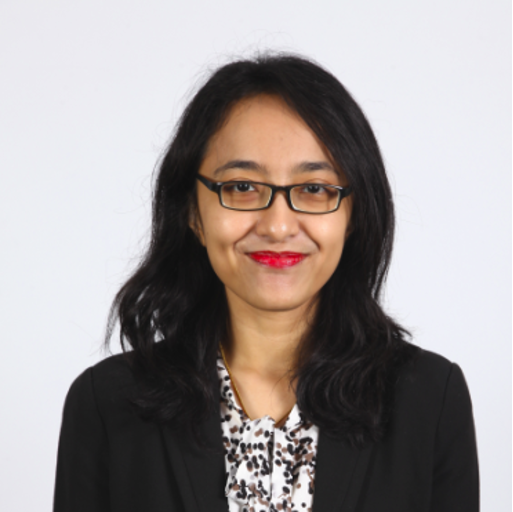
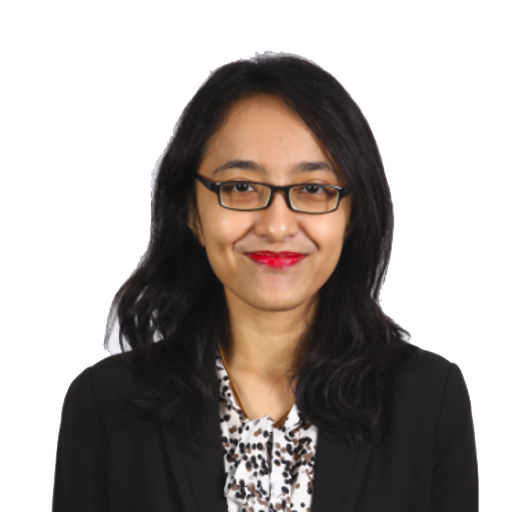
removed background on team picture

diff --git a/about.html b/about.html
@@ -615,7 +615,7 @@ RIGHT SIDEBAR TOGGLE SECTION
           <div class="col-lg-3 col-6 team-wrap mt-lg-5 mt-4">
             <div class="team-member text-center">
               <div class="team-img">
-                <img width="300" height="300" title="Sharifah" src="assets/images/team/Sharifah.jpg" alt=""  class="radius-image">
+                <img width="300" height="300" title="Sharifah" src="assets/images/team/sharifah.png" alt=""  class="radius-image">
                 <div class="overlay-team">
                   <div class="team-details text-center">
                     <div class="socials mt-20">
@@ -770,7 +770,7 @@ RIGHT SIDEBAR TOGGLE SECTION
           <div class="col-lg-3 col-6 team-wrap mt-lg-5 mt-4">
             <div class="team-member last text-center">
               <div class="team-img">
-                <img width="300" height="300" title="Pranesh" src="assets/images/team/pranesh.jpg" alt="" class="radius-image">
+                <img width="300" height="300" title="Pranesh" src="assets/images/team/pranesh.png" alt="" class="radius-image">
                 <div class="overlay-team">
                   <div class="team-details text-center">
                     <div class="socials mt-20">
@@ -849,7 +849,7 @@ RIGHT SIDEBAR TOGGLE SECTION
           <div class="col-lg-3 col-6 team-wrap mt-lg-5 mt-4">
             <div class="team-member text-center">
               <div class="team-img">
-                <img width="300" height="300" title="Nur Hidayah binti Halim" src="assets/images/team/hidayah.jpg" alt="" class="radius-image">
+                <img width="300" height="300" title="Nur Hidayah binti Halim" src="assets/images/team/hidayah.png" alt="" class="radius-image">
                 <div class="overlay-team">
                   <div class="team-details text-center">
                     <div class="socials mt-20">
@@ -875,7 +875,7 @@ RIGHT SIDEBAR TOGGLE SECTION
           <div class="col-lg-3 col-6 team-wrap mt-lg-5 mt-4">
             <div class="team-member text-center">
               <div class="team-img">
-                <img width="300" height="300" title="Noor Ameera Anas" src="assets/images/team/ameera.jpg" alt="" class="radius-image">
+                <img width="300" height="300" title="Noor Ameera Anas" src="assets/images/team/ameera.png" alt="" class="radius-image">
                 <div class="overlay-team">
                   <div class="team-details text-center">
                     <div class="socials mt-20">
@@ -901,7 +901,7 @@ RIGHT SIDEBAR TOGGLE SECTION
           <div class="col-lg-3 col-6 team-wrap mt-lg-5 mt-4">
             <div class="team-member text-center">
               <div class="team-img">
-                <img width="300" height="300" title="Sam" src="assets/images/team/sam.jpg" alt="" class="radius-image">
+                <img width="300" height="300" title="Sam" src="assets/images/team/sam.png" alt="" class="radius-image">
                 <div class="overlay-team">
                   <div class="team-details text-center">
                     <div class="socials mt-20">
@@ -927,7 +927,7 @@ RIGHT SIDEBAR TOGGLE SECTION
           <div class="col-lg-3 col-6 team-wrap mt-lg-5 mt-4">
             <div class="team-member text-center">
               <div class="team-img">
-                <img width="300" height="300" title="Nishyaal" src="assets/images/team/nishyaal.jpg" alt="" class="radius-image">
+                <img width="300" height="300" title="Nishyaal" src="assets/images/team/nishyaal.png" alt="" class="radius-image">
                 <div class="overlay-team">
                   <div class="team-details text-center">
                     <div class="socials mt-20">
@@ -953,7 +953,7 @@ RIGHT SIDEBAR TOGGLE SECTION
           <div class="col-lg-3 col-6 team-wrap mt-lg-5 mt-4">
             <div class="team-member text-center">
               <div class="team-img">
-                <img width="300" height="300" title="Fitrah" src="assets/images//team/fitrah.jpg" alt="" class="radius-image">
+                <img width="300" height="300" title="Fitrah" src="assets/images//team/fitrah.png" alt="" class="radius-image">
                 <div class="overlay-team">
                   <div class="team-details text-center">
                     <div class="socials mt-20">
@@ -979,7 +979,7 @@ RIGHT SIDEBAR TOGGLE SECTION
           <div class="col-lg-3 col-6 team-wrap mt-lg-5 mt-4">
             <div class="team-member text-center">
               <div class="team-img">
-                <img width="300" height="300" title="Farah" src="assets/images/team/farah.jpg" alt="" class="radius-image">
+                <img width="300" height="300" title="Farah" src="assets/images/team/farah.png" alt="" class="radius-image">
                 <div class="overlay-team">
                   <div class="team-details text-center">
                     <div class="socials mt-20">
@@ -1005,7 +1005,7 @@ RIGHT SIDEBAR TOGGLE SECTION
           <div class="col-lg-3 col-6 team-wrap mt-lg-5 mt-4">
             <div class="team-member text-center">
               <div class="team-img">
-                <img width="300" height="300" title="Noor Ain" src="assets/images/team/noorain.jpg" alt="" class="radius-image">
+                <img width="300" height="300" title="Noor Ain" src="assets/images/team/noorain.png" alt="" class="radius-image">
                 <div class="overlay-team">
                   <div class="team-details text-center">
                     <div class="socials mt-20">
@@ -1031,7 +1031,7 @@ RIGHT SIDEBAR TOGGLE SECTION
           <div class="col-lg-3 col-6 team-wrap mt-lg-5 mt-4">
             <div class="team-member text-center">
               <div class="team-img">
-                <img width="300" height="300" title="Chee Lam" src="assets/images/team/cheelam.jpg" alt="" class="radius-image">
+                <img width="300" height="300" title="Chee Lam" src="assets/images/team/cheelam.png" alt="" class="radius-image">
                 <div class="overlay-team">
                   <div class="team-details text-center">
                     <div class="socials mt-20">
@@ -1057,7 +1057,7 @@ RIGHT SIDEBAR TOGGLE SECTION
           <div class="col-lg-3 col-6 team-wrap mt-lg-5 mt-4">
             <div class="team-member text-center">
               <div class="team-img">
-                <img width="300" height="300" title="Pavindran" src="assets/images/team/pavindran.jpg" alt="" class="radius-image">
+                <img width="300" height="300" title="Pavindran" src="assets/images/team/pahvindran.png" alt="" class="radius-image">
                 <div class="overlay-team">
                   <div class="team-details text-center">
                     <div class="socials mt-20">
@@ -1074,7 +1074,7 @@ RIGHT SIDEBAR TOGGLE SECTION
                   </div>
                 </div>
               </div>
-              <a href="#url" class="team-title">Pavindran</a>
+              <a href="#url" class="team-title">Pahvindran</a>
               <p>Intern</p>
             </div>
           </div>
